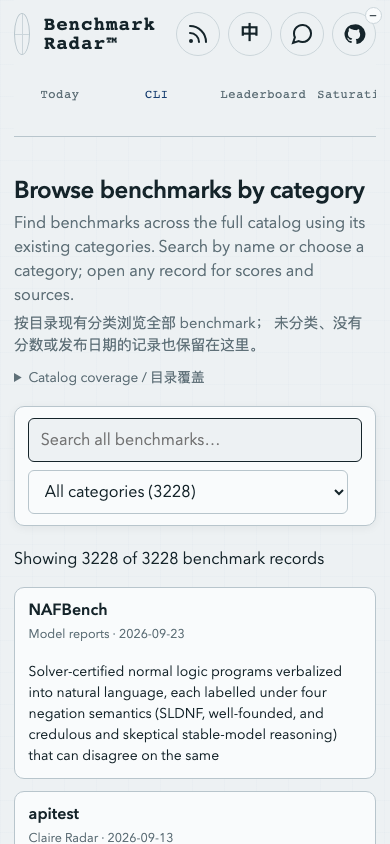
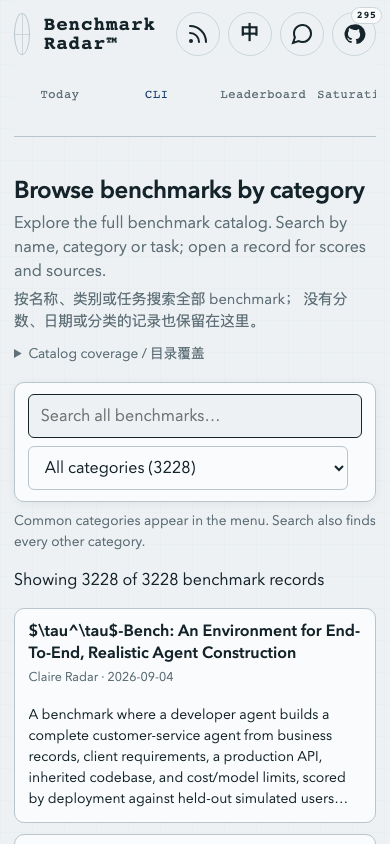
Document static browser coverage, resource costs and review screenshots

diff --git a/assets/use-case-380/README.md b/assets/use-case-380/README.md
@@ -1,24 +1,80 @@
 # Full-catalog category browser
 
-These screenshots show the production `/themes/` generator after a clean
-`normalize-catalog` build. They use the unified `benchmark-index.json`, not a
-digest replay or discovery snapshots. The page preserves the catalog's existing
-categories without introducing a new taxonomy.
+`site/themes/index.html` is a small, committed static entry point. It reads the
+same `/data/benchmark-index.json` as the homepage and imports the existing
+`catalog-search.js` implementation used by `app.js`'s `searchBenchmarkIndex`.
+There is no category-page generator, second tokenizer or copied ranking code.
+
+## Reproduce
+
+From a Python 3.12 development environment with Node 22 available:
+
+```sh
+python -m pip install -e '.[dev]'
+benchmark-radar normalize-catalog
+python -m http.server 8942 --bind 127.0.0.1 --directory site
+```
+
+Open `http://127.0.0.1:8942/themes/`. Normalization provides the shared catalog
+and linked benchmark detail pages; it does not generate the category browser.
+The daily workflow, snapshot writer, rebuild and classification code are unchanged
+from main. No new workflow step, dependency or snapshot field is added.
+
+## Coverage and controls
+
+The fresh catalog has 3,228 records across five sources: 687 LLM Stats, 25
+Artificial Analysis, 1,914 Claire Radar, 141 Model reports and 461 OpenCompass
+Hub records. Every record is rendered once by default, including all four
+uncategorized records and records missing dates or scores.
+
+The menu has 12 common categories, All and Uncategorized. Its information note
+states that 12 of 416 browsing categories are shown, 404 additional categories
+remain searchable, and two data-quality labels are excluded from the menu.
+Unsupported / 不支持 labels never remove their records from browsing or search.
+Category counts overlap; record totals do not.
+
+Search stays on this page, uses the existing shared search over the full corpus,
+and then applies the category selection. Full and partial lexical matches are
+labelled separately. Clearing both controls restores every record. Catalog load
+or validation failure shows an error and no plausible subset; without JavaScript,
+the page offers the full catalog download instead.
+
+## Screenshots and checks
+
+These captures use code `cdcc924e`, including main `5d86e015`:
 
 - `themes-page.png`: desktop arrival, 1440 × 900.
-- `themes-page-pinned.png`: desktop with the existing `Agents` category selected,
-  showing 197 matching source records.
+- `themes-page-pinned.png`: Agents selected, 197 matching records, 1440 × 900.
 - `themes-page-mobile.png`: mobile arrival, 390 × 844.
 
-All captures use device scale factor 1 and the site's shared design tokens.
+Device scale factor is 1. Browser checks reconciled the exact rendered ID set,
+verified common and uncategorized membership, searched an omitted singleton
+category (`faithfulness`), compared HLE and task-search results with the shared
+module, exercised combined filters and reset, and tested 320, 390 and 1440 px
+widths under both light and dark browser preferences. The shared site's existing
+light palette is preserved. No script errors or document horizontal overflow
+were found. HTTP errors and malformed catalogs were tested separately, including
+the completed error-state text and absence of unhandled page errors.
 
-The rebuilt catalog contains 3,228 records across five sources: 687 LLM Stats,
-25 Artificial Analysis, 1,914 Claire Radar, 141 Model reports, and 461
-OpenCompass Hub records. All 3,228 records render once; 3,224 have categories
-and four remain visible as uncategorized. Categories overlap; their counts are
-not additive. There is no record cap or omitted-record trim.
+The automated Node/Python checks exercise the same real catalog and shared
+search module, rare-category access, and catalog-loading failure. The loading
+regressions fail before the error-handler fix and pass afterwards.
 
-Browser checks verified the rendered ID set against the complete generated
-catalog, category membership, the four uncategorized records, full-catalog
-search, no-match feedback, filter reset, and no horizontal overflow or script
-errors at either viewport. Every card links to its catalog detail page.
+## Transfer sizes
+
+Measured from this build, with gzip mtime=0 (raw / gzipped bytes):
+
+| File | Raw | Gzipped |
+| --- | ---: | ---: |
+| New static HTML | 11,446 | 3,786 |
+| New category browser script | 6,088 | 2,231 |
+| New category styles | 2,143 | 795 |
+| Existing shared search module | 9,867 | 3,577 |
+| Existing shared catalog | 9,567,593 | 1,383,426 |
+
+New page resources total 6,812 gzipped bytes. A cold visit still needs the shared
+catalog and existing styles/scripts; this is not a claim that the whole visit
+costs 6.8 KB. Default HTTP caching is used. A controlled gzip/cache-header server
+confirmed the catalog came from browser cache after visiting Saturation. The
+plain local Python server sometimes retransferred it, so reuse depends on the
+host's HTTP caching and is not a production transfer measurement.
